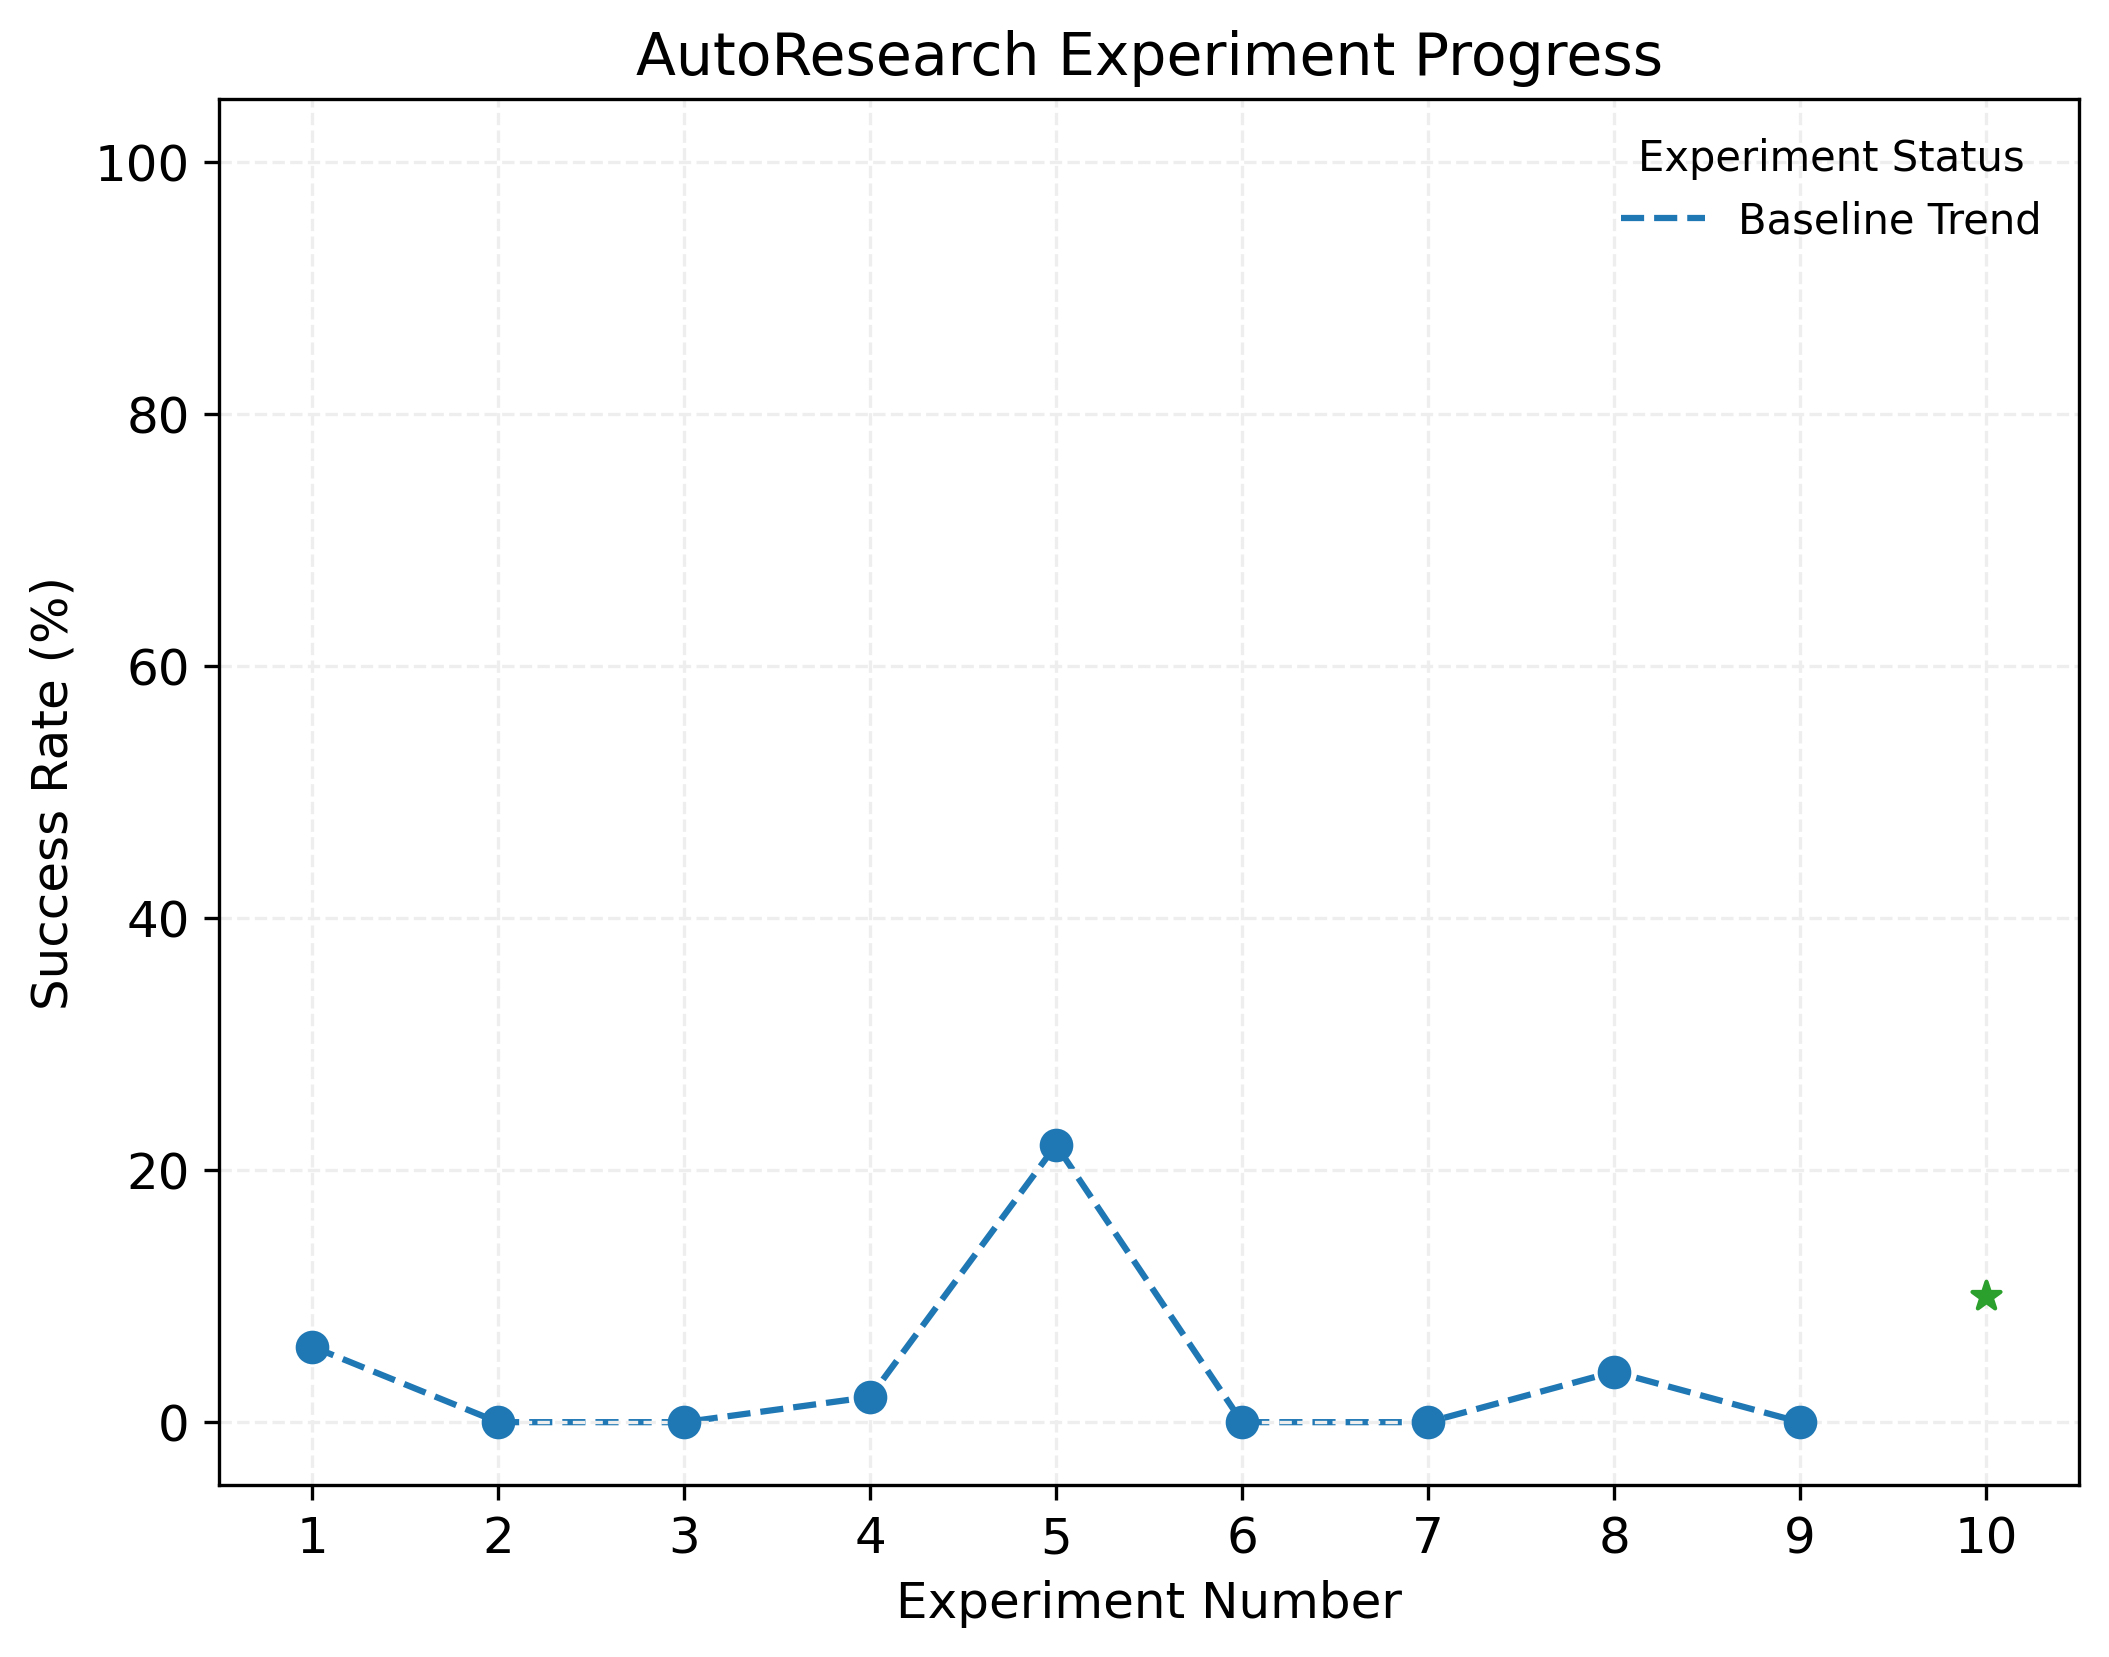
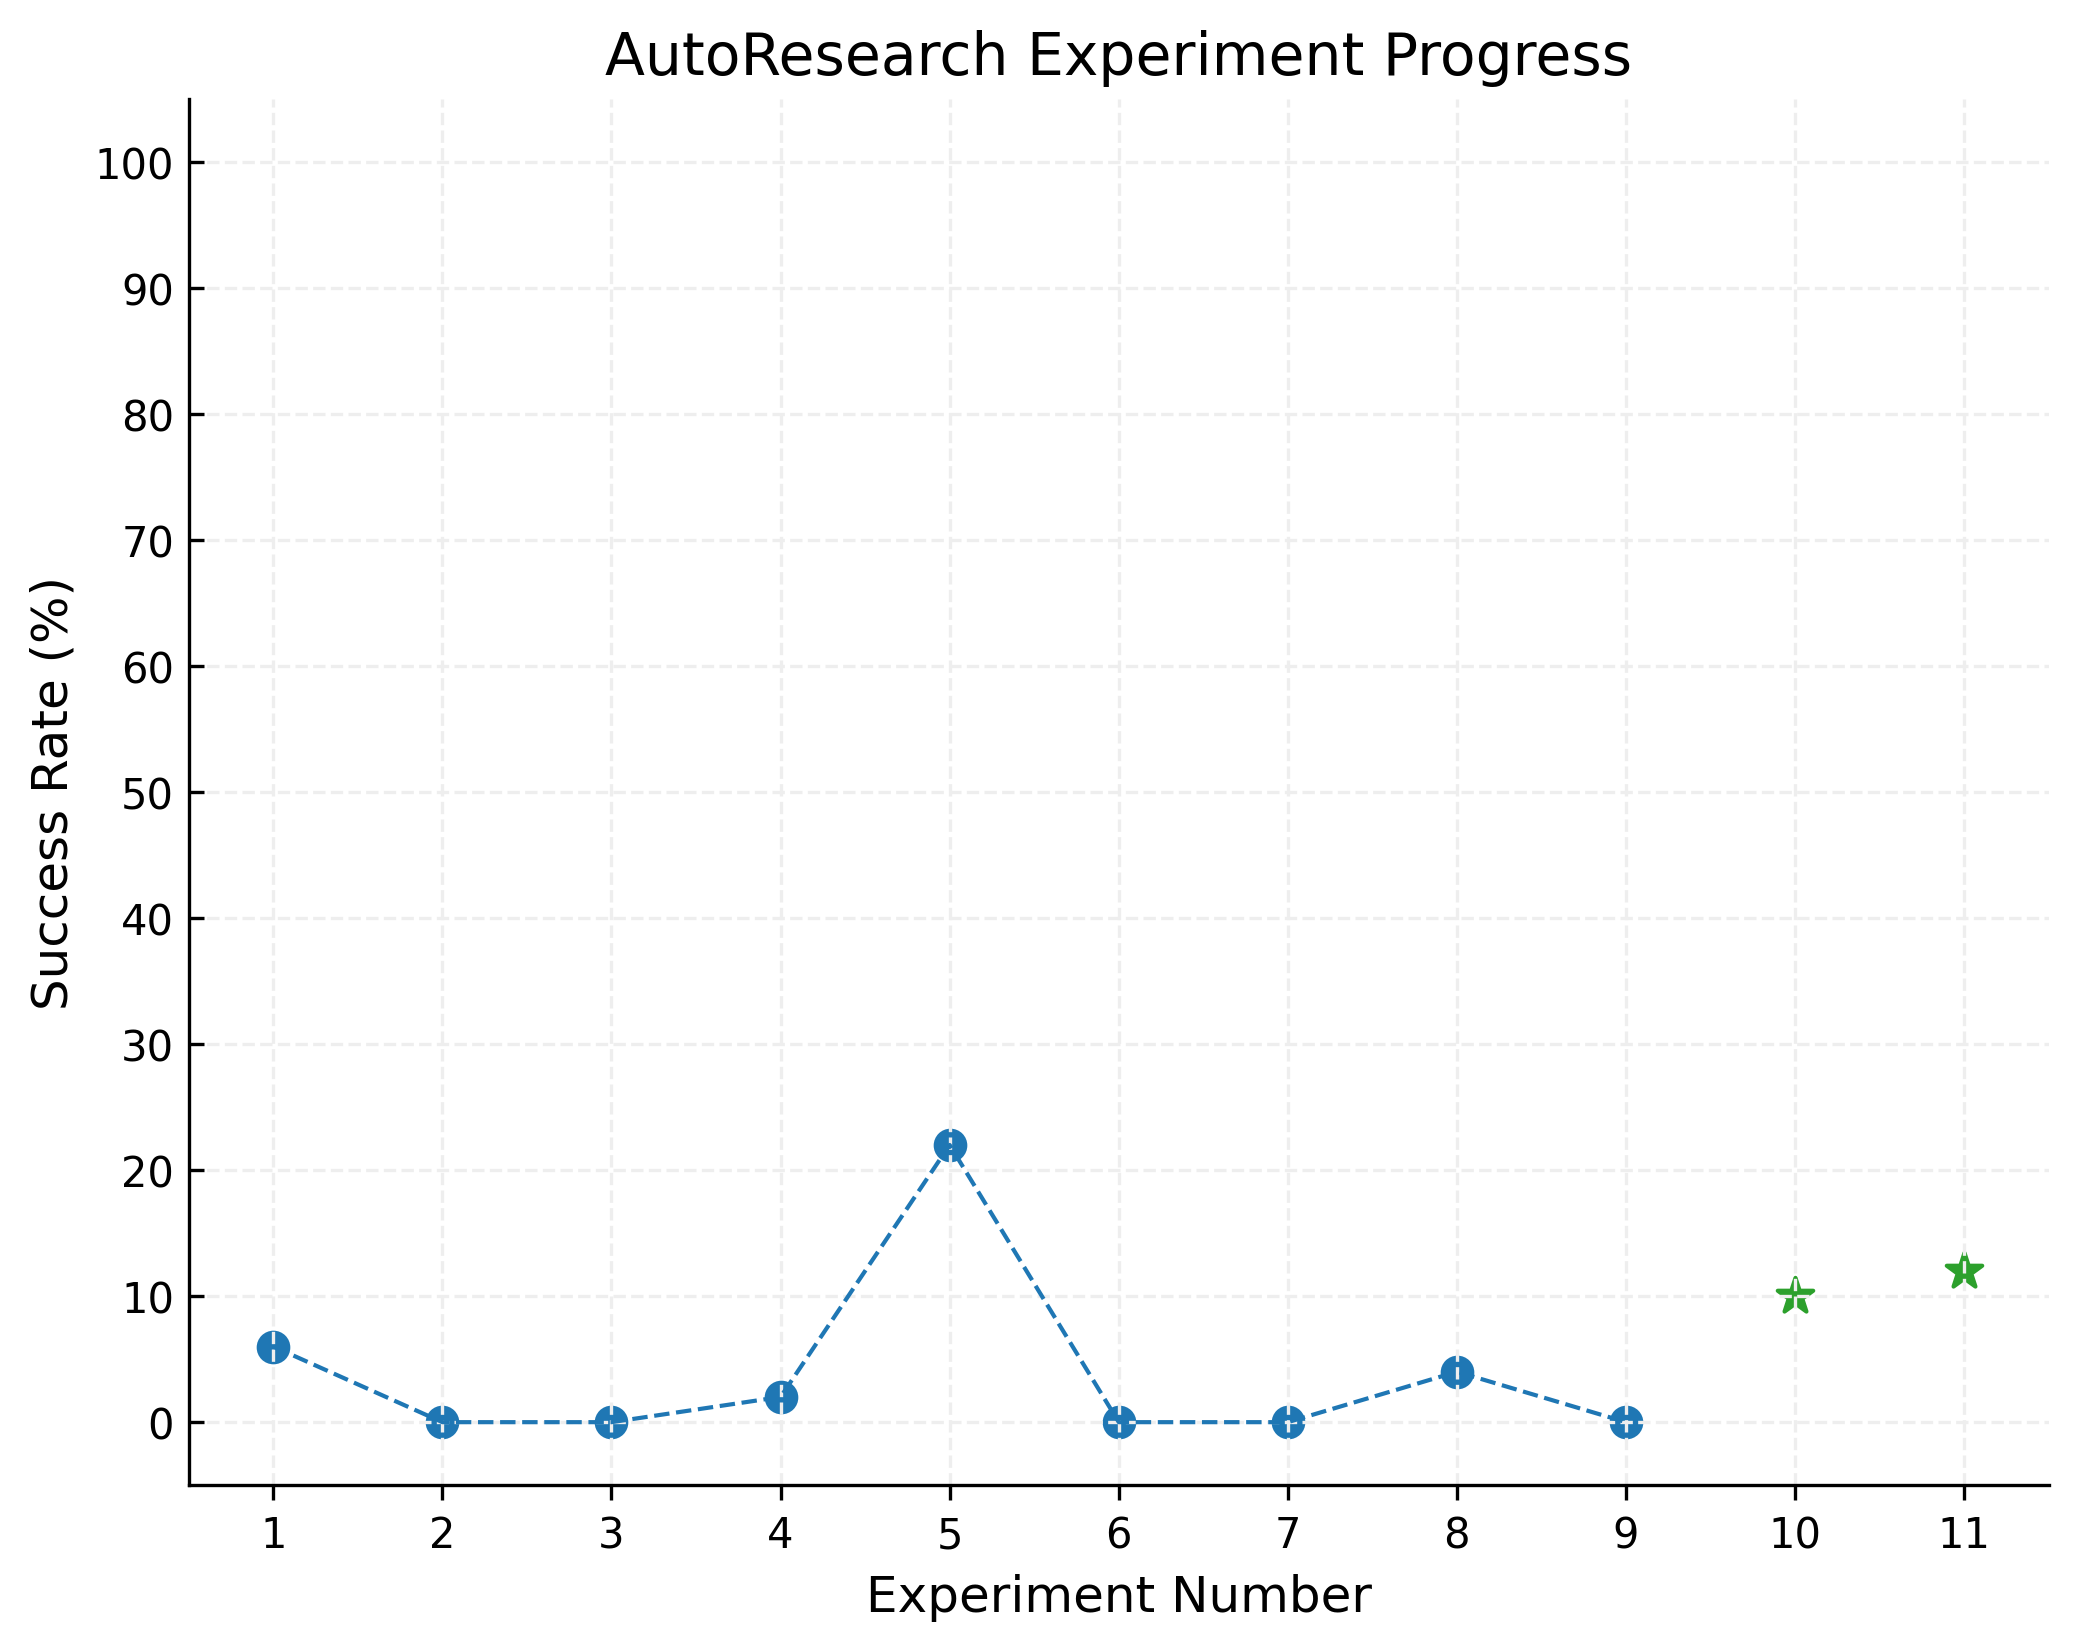
results: 11 experiments — auto-sync

diff --git a/RESULTS.md b/RESULTS.md
@@ -1,18 +1,18 @@
 # AutoResearch-MRL: Live Results
 
-> Last updated: **2026-03-15 18:03 UTC** | auto-generated every 5 min
+> Last updated: **2026-03-15 18:11 UTC** | auto-generated every 5 min
 
 ## Summary
 
 | Metric | Value |
 |--------|-------|
 | **Current Phase** | Phase 2: Optimization |
-| Total experiments | 10 |
+| Total experiments | 11 |
 | Baselines complete | 9 / 9 |
-| Improvements kept | 1 |
+| Improvements kept | 2 |
 | Discarded | 0 |
 | Crashes | 0 |
-| Total GPU time | 531 min (8.8 hrs) |
+| Total GPU time | 566 min (9.4 hrs) |
 
 ## Policy Comparison
 
@@ -47,7 +47,7 @@
 | act | PushT-v0 | 0.0% | baseline | default act on PushT-v0 |
 | diffusion | AlohaInsertion-v0 | 0.0% | baseline | default diffusion on AlohaInsertion-v0 |
 | diffusion | AlohaTransferCube-v0 | 2.0% | baseline | default diffusion on AlohaTransferCube-v0 |
-| diffusion | PushT-v0 | 10.0% | +4.0pp | lr=5e-5 |
+| diffusion | PushT-v0 | 12.0% | +6.0pp | lr=5e-4 |
 | vqbet | AlohaInsertion-v0 | 0.0% | baseline | default vqbet on AlohaInsertion-v0 |
 | vqbet | AlohaTransferCube-v0 | 0.0% | baseline | default vqbet on AlohaTransferCube-v0 |
 | vqbet | PushT-v0 | 0.0% | baseline | default vqbet on PushT-v0 |
@@ -73,6 +73,7 @@
 | 8 | `f0cd1ec` | act | AlohaInsertion-v0 | 4.0% | 116.0 | baseline | default act on AlohaInsertion-v0 |
 | 9 | `bf9ea9a` | vqbet | AlohaInsertion-v0 | 0.0% | 0.0 | baseline | default vqbet on AlohaInsertion-v0 |
 | 10 | `02f0c05` | diffusion | PushT-v0 | 10.0% | 39.5 | **KEEP** | lr=5e-5 |
+| 11 | `dde6bcb` | diffusion | PushT-v0 | 12.0% | 47.1 | **KEEP** | lr=5e-4 |
 
 </details>
 
